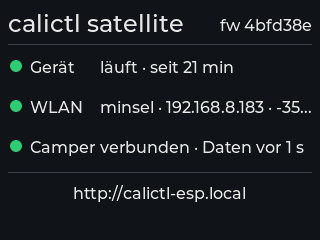
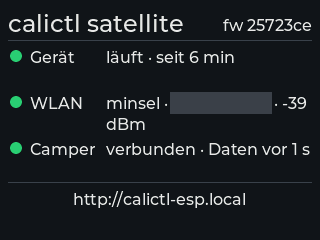
docs: status display re-walk on two-line rows; wording fixes (#154)
Final review I1 step 6 + M1/M2/M8: both screen figures re-shot on the
two-line build (the connected one with its LAN address greyed out), the
evidence ledger drops the LAN IP and records the re-walk and the M11
reconnect sampling, the how-to describes the shorter texts, the Board
tier claims the spec's seven states + dimming instead of "every state",
and the stale "no hardware" lines are gone.

Claude-Session: https://claude.ai/code/session_01Rd5yRMduK8c9xnwrvP4XBt

diff --git a/docs/firmware.md b/docs/firmware.md
@@ -32,7 +32,7 @@ flowchart LR
 | **QEMU boot** (CI `firmware-qemu`) | The **real ESP-IDF image** (compiled for the esp32s3) boots in Espressif's QEMU: the console line protocol on the no-controller path, and the NVS-backed bond store (`cali_kv_*`) surviving a reboot, including a CRC-broken record recovering as "unpaired" instead of crashing. | Bluetooth — QEMU's esp32s3 machine has no radio, so BLE stays with the host tier and hardware. | `docker run --rm -v "$PWD":/project -w /project/firmware espressif/idf:v6.1 bash -c '. $IDF_PATH/export.sh >/dev/null && idf.py -B build-qemu -D SDKCONFIG=build-qemu/sdkconfig -D SDKCONFIG_DEFAULTS="sdkconfig.defaults;qemu/sdkconfig.qemu" build && cd /project && pip install -q pytest && CALI_QEMU=1 python -m pytest tests/firmware/test_qemu_boot.py -v'` |
 | **Host web e2e** (CI `firmware-host-e2e`, `tests/firmware/test_web_e2e.py`) | `cali-host --http PORT --fake-wifi SCRIPT`: the WiFi runner, captive DNS and web endpoints on the same 100 ms tick as the BLE session, over `net_host.c` (POSIX sockets on 127.0.0.1 + a scripted fake WiFi radio) and the Bumble fake unit. Proves the setup flow (fresh boot -> setup mode -> POST credentials -> station), a wrong password falling back to setup with the credentials cleared, saved credentials reconnecting after a restart + `DELETE /api/wifi`, `/api/state` equal to the console's `SNAP` after pairing, a WiFi loss leaving the BLE link and heartbeat alone, the page rendering in Chromium (EN + DE), and the setup flow clicked in Chromium (a wrong password shows the wrong-password text, the right one the `http://calictl-esp.local` link; EN + DE). | The real esp_wifi/lwIP/mdns stack, a real phone's captive-portal detection, radio coexistence — the fake WiFi only replays the script's outcomes. | `tools/ci.sh firmware` (Linux; on a Mac see `firmware/README.md` "Host build" for the Docker recipe) |
 | **QEMU no-WiFi-driver** (CI `firmware-qemu`, `test_qemu_boot.py::test_no_wifi_driver_boots_and_serves_nothing`) | The QEMU image is built with `CONFIG_CALI_WIFI=n` (no esp_wifi call compiled in): it logs `LOG wifi: driver unavailable` once, keeps WiFi off (`status` has no `wifi` member, `wifi status` -> `LOG wifi: not enabled`), listens on nothing, and does not reboot — the same path a board takes when `esp_wifi_init`/`esp_wifi_start` fails. | Anything about a working WiFi driver (QEMU's esp32s3 has no WiFi). | The QEMU command above |
-| **Board** (bench, not CI) | The real CoreS3 on a Linux bench against the mock camper unit (`tools/applab/fake_unit_ble.py` on a USB BLE dongle) and a second WiFi stick: flashing from `flasher_args.json`, the USB-Serial/JTAG console, esp-nimble passkey pairing + reconnect by bond, the setup hotspot -> `POST /api/wifi` -> station join, and every status-display state by remote `screenshot` (2026-10-01, `tools/esplab_display_walk.sh`; dated rows in `docs/business-logic/evidence-ledger.md`). | The real camper unit (only the mock so far), a phone's captive portal, the van's radio environment, and the hardware watch items below that need the real unit. | `tools/esplab_display_walk.sh` on the bench (header lists its env); `firmware/README.md` "Status display" |
+| **Board** (bench, not CI) | The real CoreS3 on a Linux bench against the mock camper unit (`tools/applab/fake_unit_ble.py` on a USB BLE dongle) and a second WiFi stick: flashing from `flasher_args.json`, the USB-Serial/JTAG console, esp-nimble passkey pairing + reconnect by bond, the setup hotspot -> `POST /api/wifi` -> station join, and the spec's seven status-display states (setup, joining, online, pairing, connected, stale, link lost) + dimming by remote `screenshot` (2026-10-01, `tools/esplab_display_walk.sh`; dated rows in `docs/business-logic/evidence-ledger.md`). | The real camper unit (only the mock so far), a phone's captive portal, the van's radio environment, and the hardware watch items below that need the real unit. | `tools/esplab_display_walk.sh` on the bench (header lists its env); `firmware/README.md` "Status display" |
 | **Pure-C unit tests** (in the normal `test`/`pytest` job, no BLE) | The pairing state machine (`pairing_sm.c`) replays the same golden vectors as `calictl.pairing`; the runner and the session+console compile and run against scripted fake transports on any host with a C compiler (macOS included). The network pieces too: the WiFi SM replays `tests/vectors/wifi_sm.json` from its Python twin (`tools/wifi_sm_ref.py`), the HTTP core (`http_core.c`), captive DNS (`captive_dns.c`), web handlers (`web.c`), JSON writer and the host `cali_net` (`net_host.c`) each run under a small C driver, and the WiFi runner runs next to the BLE session in `test_session_fake.py`. | Real NimBLE call sequencing (that's the host tier's job); real sockets under load; any radio. | `python -m pytest tests/firmware/test_pairing_sm_parity.py tests/firmware/test_runner_fake.py tests/firmware/test_session_fake.py tests/firmware/test_wifi_sm_parity.py tests/firmware/test_http_core.py tests/firmware/test_captive_dns.py tests/firmware/test_web_handlers.py tests/firmware/test_json.py tests/firmware/test_net_host.py -v` |
 
 CI also builds the release esp32s3 image compile-only (job `firmware-build`, container
@@ -423,7 +423,7 @@ human-readable version of the same trace). `docs/api.rst` pulls those test modul
   every row state, the 10 s stale rule, the setup footer and the bright/dim timing through a C driver
   over `display_model.c`), `T_FW_DISPLAY_FONT` (`tests/test_display_font.py`, every EN/DE screen
   string drawable with the generated fonts) and on the board by `tools/esplab_display_walk.sh`
-  (screenshots of every state, decoded by `tools/esp_shot.py`, `tests/test_esp_shot.py`; BOARD rows
+  (screenshots of the spec's seven states + dimming, decoded by `tools/esp_shot.py`, `tests/test_esp_shot.py`; BOARD rows
   in `docs/business-logic/evidence-ledger.md`).
 
 The full needs table for the whole project, not just firmware, is at the bottom of

diff --git a/docs/business-logic/evidence-ledger.md b/docs/business-logic/evidence-ledger.md
@@ -159,11 +159,13 @@ show the content, not the backlight level).
 
 | Date | Fact | Evidence |
 |---|---|---|
-| 2026-10-01 | Setup screen: `wifi forget` + `forget` → WLAN amber *Einrichtungs-Hotspot calictl-esp-setup …* (cut with "…"), Camper grey *nicht gekoppelt*, footer *WLAN calictl-esp-setup · Passwort calictl-setup* | `LOG wifi: setup hotspot up`, `STATE … idle`; screenshot (`docs/screenshots/esp-screen-setup.png`) |
-| 2026-10-01 | `POST /api/wifi` over the setup hotspot → WLAN amber *verbinde mit minsel* → green *minsel · 192.168.8.183 · −32…* (RSSI cut) | `{"ok":true}`, `LOG wifi: online 192.168.8.183`; screenshots taken right after the POST and 15 s later |
+| 2026-10-01 | Setup screen (`4bfd38e`): `wifi forget` + `forget` → WLAN amber *Einrichtungs-Hotspot calictl-esp-setup …* (cut with "…"; two-line rows since `25723ce`, below), Camper grey *nicht gekoppelt*, footer *WLAN calictl-esp-setup · Passwort calictl-setup* | `LOG wifi: setup hotspot up`, `STATE … idle`; screenshot (`docs/screenshots/esp-screen-setup.png`) |
+| 2026-10-01 | `POST /api/wifi` over the setup hotspot → WLAN amber *verbinde mit minsel* → green *minsel · \<LAN IP\> · −32…* (RSSI cut on `4bfd38e`) | `{"ok":true}`, `LOG wifi: online <LAN IP>`; screenshots taken right after the POST and 15 s later |
 | 2026-10-01 | `pair` → Camper amber *Code der Einheit eingeben* (`waiting_passkey`); `passkey 123456` → green *verbunden · Daten vor 1 s* | `STATE` scanning → connecting → pairing → waiting_passkey → pairing → verifying → bonded; screenshot (`docs/screenshots/esp-screen-connected.png`) |
 | 2026-10-01 | Stale rule: mock frozen with SIGSTOP (link up, no data) → Camper red *keine Daten seit 14 s* | screenshot ~13 s after the freeze; the link dropped later (`LOG session: link lost (event 6, status 531)`) |
 | 2026-10-01 | Mock stopped → Camper red *Verbindung verloren, verbinde neu*; the reconnect attempts (2 s → 32 s backoff) keep the same class, no flicker | `LOG session: link lost (event 2, status 13)`, `reconnect in …`; screenshot |
 | 2026-10-01 | Dimming: last class change (link lost) ~20:23:16 → `LOG display: brightness 10` at 20:24:16 (60 s); mock back → bond reconnect → `LOG display: brightness 100` at 20:25:09; boot → `brightness 100` | timestamped console log of the walk |
 | 2026-10-01 | `screenshot` with no reader (sender closes the port at once, 3×): BLE unaffected — mock reads +22 in 20 s, `/api/state` `device.link.up` true, no reboot; next `screenshot` with a reader complete | console + mock log + `/api/state` |
 | 2026-10-01 | `CONFIG_CALI_DISPLAY_FORCE_FAIL=y` build: `LOG display: unavailable (forced)`, `screenshot` → `LOG display: screenshot failed (no screen)`, `/api/state` HTTP 200 with `link.up` true, mock reads +15 in 15 s | console + mock log + `/api/state` |
+| 2026-10-01 | Two-line rows (`25723ce`, final review I1/R9): re-walk shows every spec text whole, wrapped at a word, no "…" and no label/value overlap — *Hotspot calictl-esp-setup · 192.168.4.1*, *minsel · \<LAN IP\> · −36 dBm* (dBm on line 2), *Code der Einheit eingeben*, *verbunden · Daten vor 1 s*, *keine Daten seit 13 s*, *Verbindung verloren, verbinde neu*; `fw 25723ce` clear of the title | screenshots of `tools/esplab_display_walk.sh` + a manual pair/stale/link-lost pass (the walk's double `forget` hit the R10 `error/timeout` on the live link, so its camper shots showed *Kopplung fehlgeschlagen*) |
+| 2026-10-01 | Reconnect after a mock restart (final review M11): sampled every ~6 s from the restart, the camper row went red *Verbindung verloren, verbinde neu* → green *verbunden · Daten vor 1 s*; no red *keine Daten* frame caught (a < 1 s flash can fall between samples) | 8 screenshots + `STATE bonded` |

diff --git a/docs/howto-esp-wifi-setup.md b/docs/howto-esp-wifi-setup.md
@@ -83,17 +83,17 @@ per row, the firmware version top right, and the page address (or, in setup, the
 password) at the bottom. The texts are German by default; an English build exists.
 
 ![The screen of a fresh satellite: setup hotspot (amber), camper not paired (grey), hotspot name and password at the bottom](screenshots/esp-screen-setup.png)
-![The screen in normal use: on the WiFi with address and signal, camper connected with data 1 s old](screenshots/esp-screen-connected.png)
+![The screen in normal use: on the WiFi with address (greyed out here) and signal, camper connected with data 1 s old](screenshots/esp-screen-connected.png)
 
 | Row | Green | Amber | Red | Grey |
 |---|---|---|---|---|
 | **Gerät** (device) | *läuft · seit 2 h 13 min* — running, and for how long | — | — (a crash shows as a restart: the time starts again) | — |
-| **WLAN** (WiFi) | *\<network\> · 192.168.x.y · −58 dBm* — on your network, its address and signal | *Einrichtungs-Hotspot calictl-esp-setup · 192.168.4.1* (setup hotspot open); *verbinde mit \<network\>* (joining); *\<network\> nicht erreichbar, neuer Versuch* (out of reach, retrying) | *nicht verbunden* plus the reason: *Netz nicht gefunden*, *falsches Passwort* or *Verbindung fehlgeschlagen* | — |
+| **WLAN** (WiFi) | *\<network\> · 192.168.x.y · −58 dBm* — on your network, its address and signal | *Hotspot calictl-esp-setup · 192.168.4.1* (setup hotspot open); *verbinde mit \<network\>* (joining); *\<network\> nicht erreichbar, versuche neu* (out of reach, retrying) | *nicht verbunden* plus the reason: *Netz nicht gefunden*, *falsches Passwort* or *Verbindungsfehler* | — |
 | **Camper** | *verbunden · Daten vor 1 s* — linked, and how old the last reading is | *verbinde …* (connecting); *Kopplung läuft …* (pairing); *Code der Einheit eingeben* (type the code the unit shows) | *Verbindung verloren, verbinde neu* (link lost, reconnecting); *keine Daten seit 14 s* (linked, but no reading for more than 10 s); *Kopplung fehlgeschlagen* (pairing failed) | *nicht gekoppelt* — not paired yet |
 
 The screen is at full brightness for **60 seconds** after any row changes colour or wording (a
-ticking age or uptime does not count), then dims to 10 %. Long texts are cut with "…" — the WiFi
-signal or the end of the setup text can be cut off; the page shows them in full.
+ticking age or uptime does not count), then dims to 10 %. Each row has room for two lines; only an unusually long network name is cut
+with "…" — the page shows it in full.
 
 ## If your network is out of reach
 

diff --git a/AGENTS.md b/AGENTS.md
@@ -21,7 +21,7 @@ semantics → sinks). This file is the agent-facing rules + operational state; i
 | `docs/superpowers/` | specs + plans — **local-only** (gitignored, not in the repo); docs that cite a spec there point at an untracked file |
 | `ui/` | machine-usable GUI specs (`screens/*.yaml`) + `prototype.html` (an **RE spec preview**, not the served UI) — **authoritative for app UI semantics**. Icons are VW/partner copyright: **not committed** (gitignored `ui/assets/svg/`); they are regenerated locally from the APK with a `vd2svg.py` converter that is itself **not in the repo** (`ui/assets/` is untracked); `build_prototype.py` falls back to neutral placeholders without them. |
 | `calictl/deploy/` | systemd unit, Mosquitto + HA compose, Grafana dashboard, `push_dashboard.py` |
-| `firmware/` | ESP32-S3 satellite (#154, WIP, read-only, no hardware yet): `cali_core` (pairing SM/runner/session/console + WiFi SM/runner, HTTP core, captive DNS, web endpoints — platform-free C) + `cali_ble_nimble` (NimBLE transport) + `platform` (NVS/host kv store, `cali_net` = `net_host.c` fake WiFi / `net_esp.c` esp_wifi+lwIP+mdns) + `web/` (status page: edit `index.html`+`page.js`+`strings.json`, `gen_c_dict` renders `index_gen.html`/`strings_gen.h`) + `host`/`qemu`/`main` builds (3 MB app partition); see `docs/firmware.md`, owner how-to `docs/howto-esp-wifi-setup.md` |
+| `firmware/` | ESP32-S3 satellite (#154, WIP, read-only, bench CoreS3 + mock unit, not yet the real unit): `cali_core` (pairing SM/runner/session/console + WiFi SM/runner, HTTP core, captive DNS, web endpoints — platform-free C) + `cali_ble_nimble` (NimBLE transport) + `platform` (NVS/host kv store, `cali_net` = `net_host.c` fake WiFi / `net_esp.c` esp_wifi+lwIP+mdns) + `web/` (status page: edit `index.html`+`page.js`+`strings.json`, `gen_c_dict` renders `index_gen.html`/`strings_gen.h`) + `host`/`qemu`/`main` builds (3 MB app partition); see `docs/firmware.md`, owner how-to `docs/howto-esp-wifi-setup.md` |
 
 ## Hard rules (don't break these)
 
